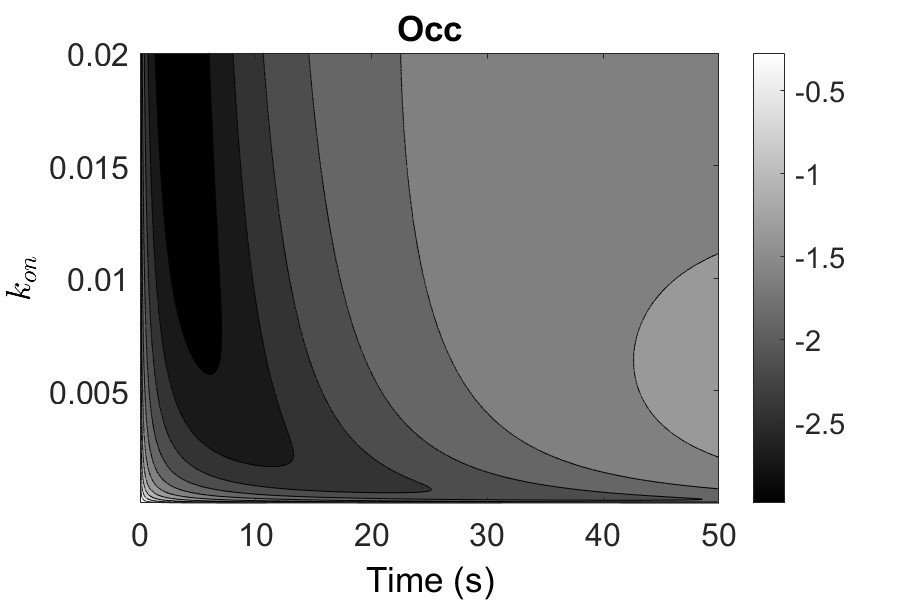
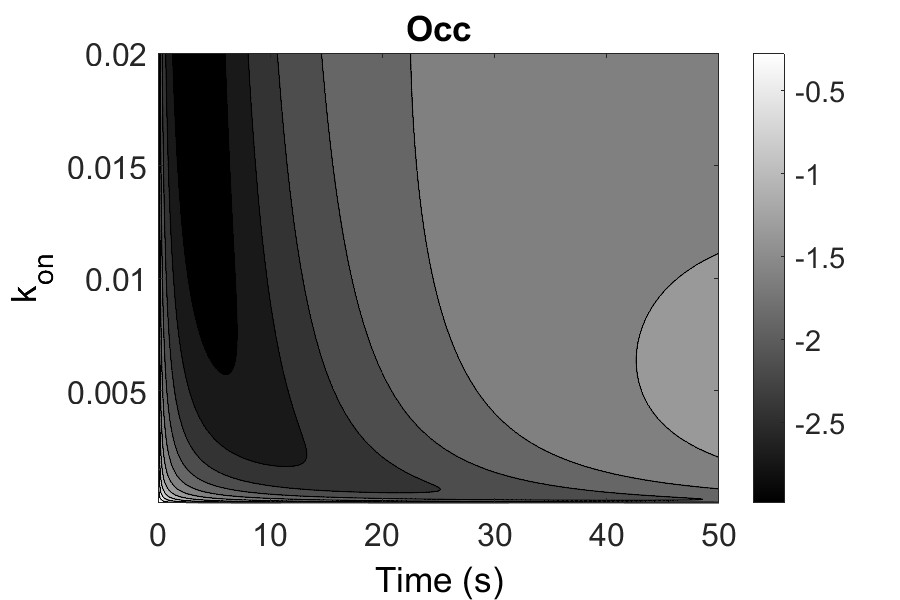
a

diff --git a/Leveraging mathematical models P2/Sensitivity/Sensitivity Analysis/OccupSensitivity.m b/Leveraging mathematical models P2/Sensitivity/Sensitivity Analysis/OccupSensitivity.m
@@ -89,7 +89,7 @@ colormap(gray);
 colorbar;
 xlabel('Time (s)', 'FontSize', 18, 'Color', 'k', 'FontWeight', 'normal');
 %ylabel('$k_{off}$', 'FontSize', 18, 'Color', 'k', 'FontWeight', 'normal', 'Interpreter', 'latex');
-ylabel('$k_{on}$', 'FontSize', 18, 'Color', 'k', 'FontWeight', 'normal', 'Interpreter', 'latex');
+ylabel('$k_{on}$', 'FontSize', 18, 'Color', 'k', 'FontWeight', 'normal', 'Interpreter', 'tex');
 title('Occ', 'FontSize', 18, 'FontWeight', 'bold', 'Color', 'k');
 set(gca, 'YDir', 'normal', 'FontSize', 16, 'YScale', 'log');
 %set(gca, 'YDir', 'normal', 'FontSize', 16);
@@ -101,7 +101,7 @@ colormap(gray);
 colorbar;
 xlabel('Time (s)', 'FontSize', 18, 'Color', 'k', 'FontWeight', 'normal');
 %ylabel('$k_{off}$', 'FontSize', 18, 'Color', 'k', 'FontWeight', 'normal', 'Interpreter', 'latex');
-ylabel('$k_{on}$', 'FontSize', 18, 'Color', 'k', 'FontWeight', 'normal', 'Interpreter', 'latex');
+ylabel('k_{on}', 'FontSize', 18, 'Color', 'k', 'FontWeight', 'normal', 'Interpreter', 'tex');
 title('Occ', 'FontSize', 18, 'FontWeight', 'bold', 'Color', 'k');
 %set(gca, 'YDir', 'normal', 'FontSize', 16, 'YScale', 'log');
 set(gca, 'YDir', 'normal', 'FontSize', 16);
@@ -113,7 +113,7 @@ colormap(gray);
 colorbar;
 xlabel('Time (s)', 'FontSize', 18, 'Color', 'k', 'FontWeight', 'normal');
 %ylabel('$k_{off}$', 'FontSize', 18, 'Color', 'k', 'FontWeight', 'normal', 'Interpreter', 'latex');
-ylabel('$k_{on}$', 'FontSize', 18, 'Color', 'k', 'FontWeight', 'normal', 'Interpreter', 'latex');
+ylabel('$k_{on}$', 'FontSize', 18, 'Color', 'k', 'FontWeight', 'normal', 'Interpreter', 'tex');
 title('Occ', 'FontSize', 18, 'FontWeight', 'bold', 'Color', 'k');
 set(gca, 'YDir', 'normal', 'FontSize', 16, 'YScale', 'log');
 %set(gca, 'YDir', 'normal', 'FontSize', 16);
